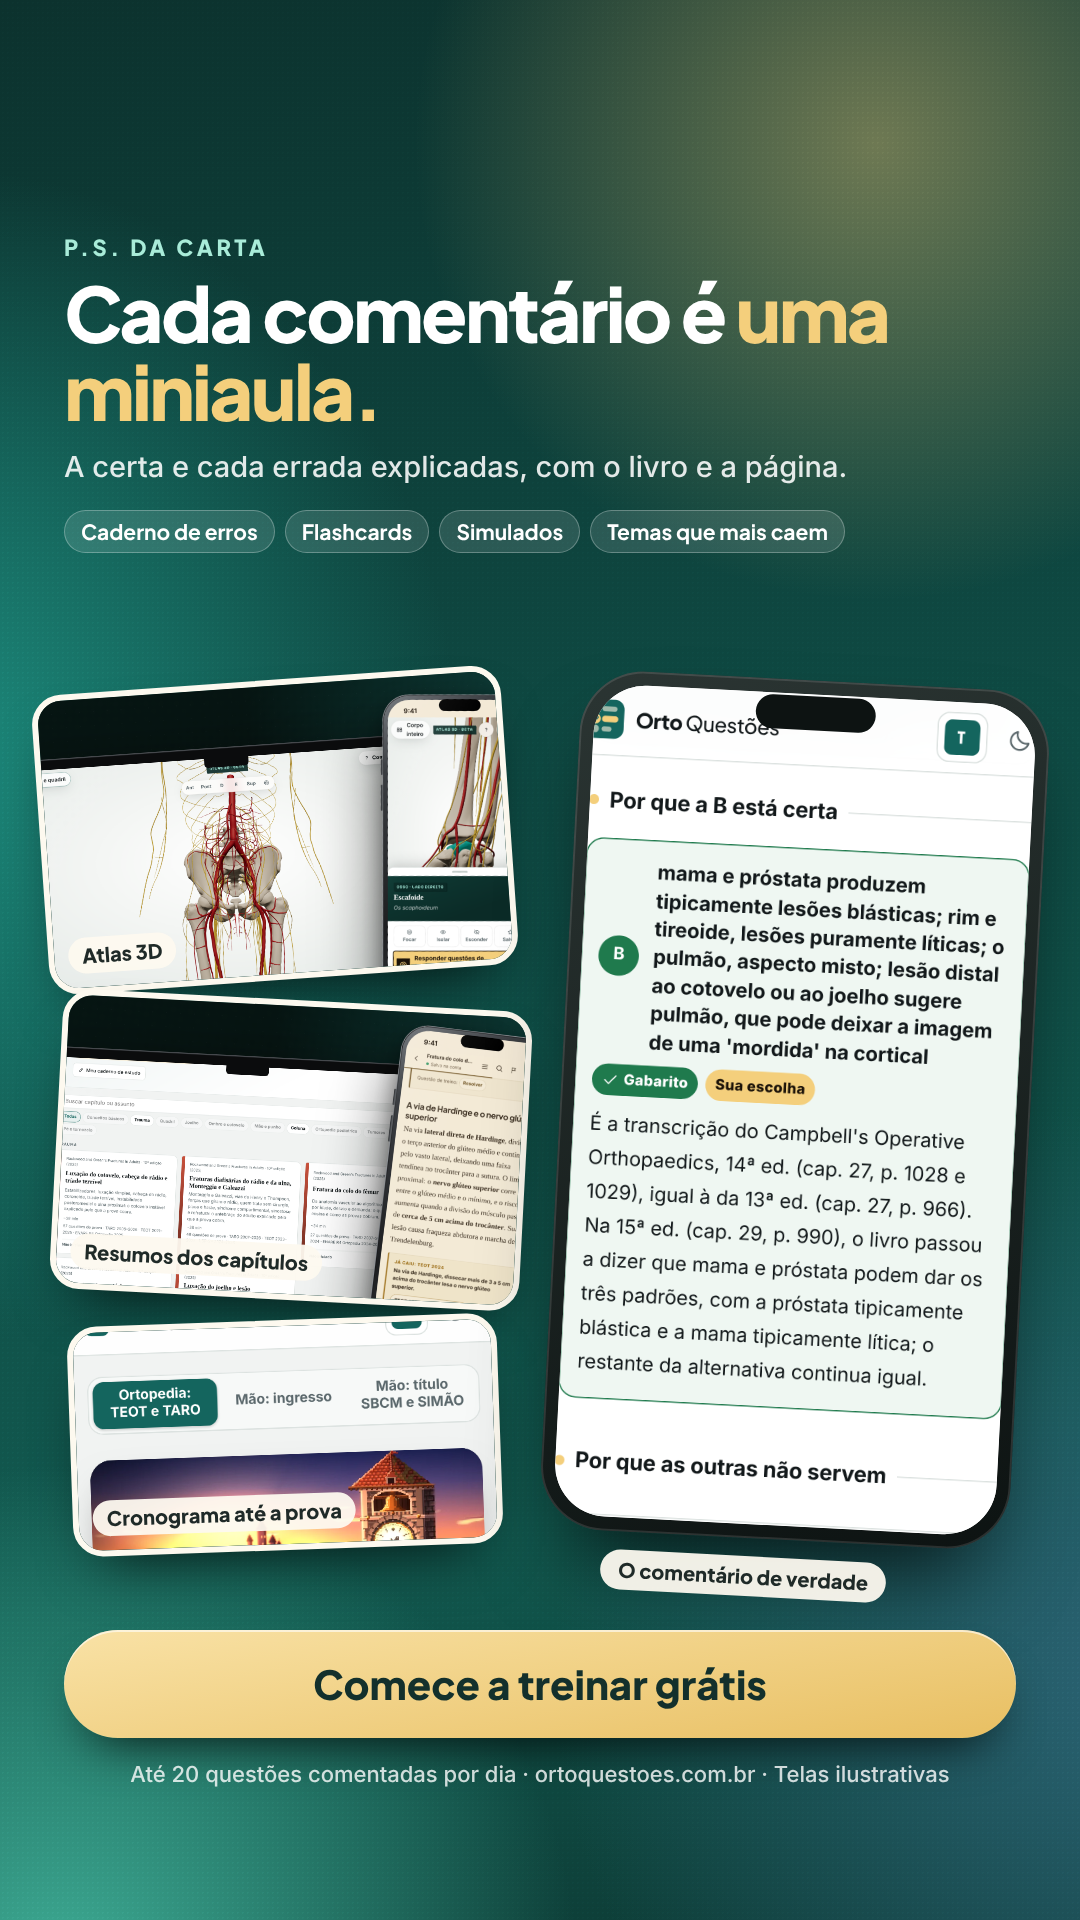
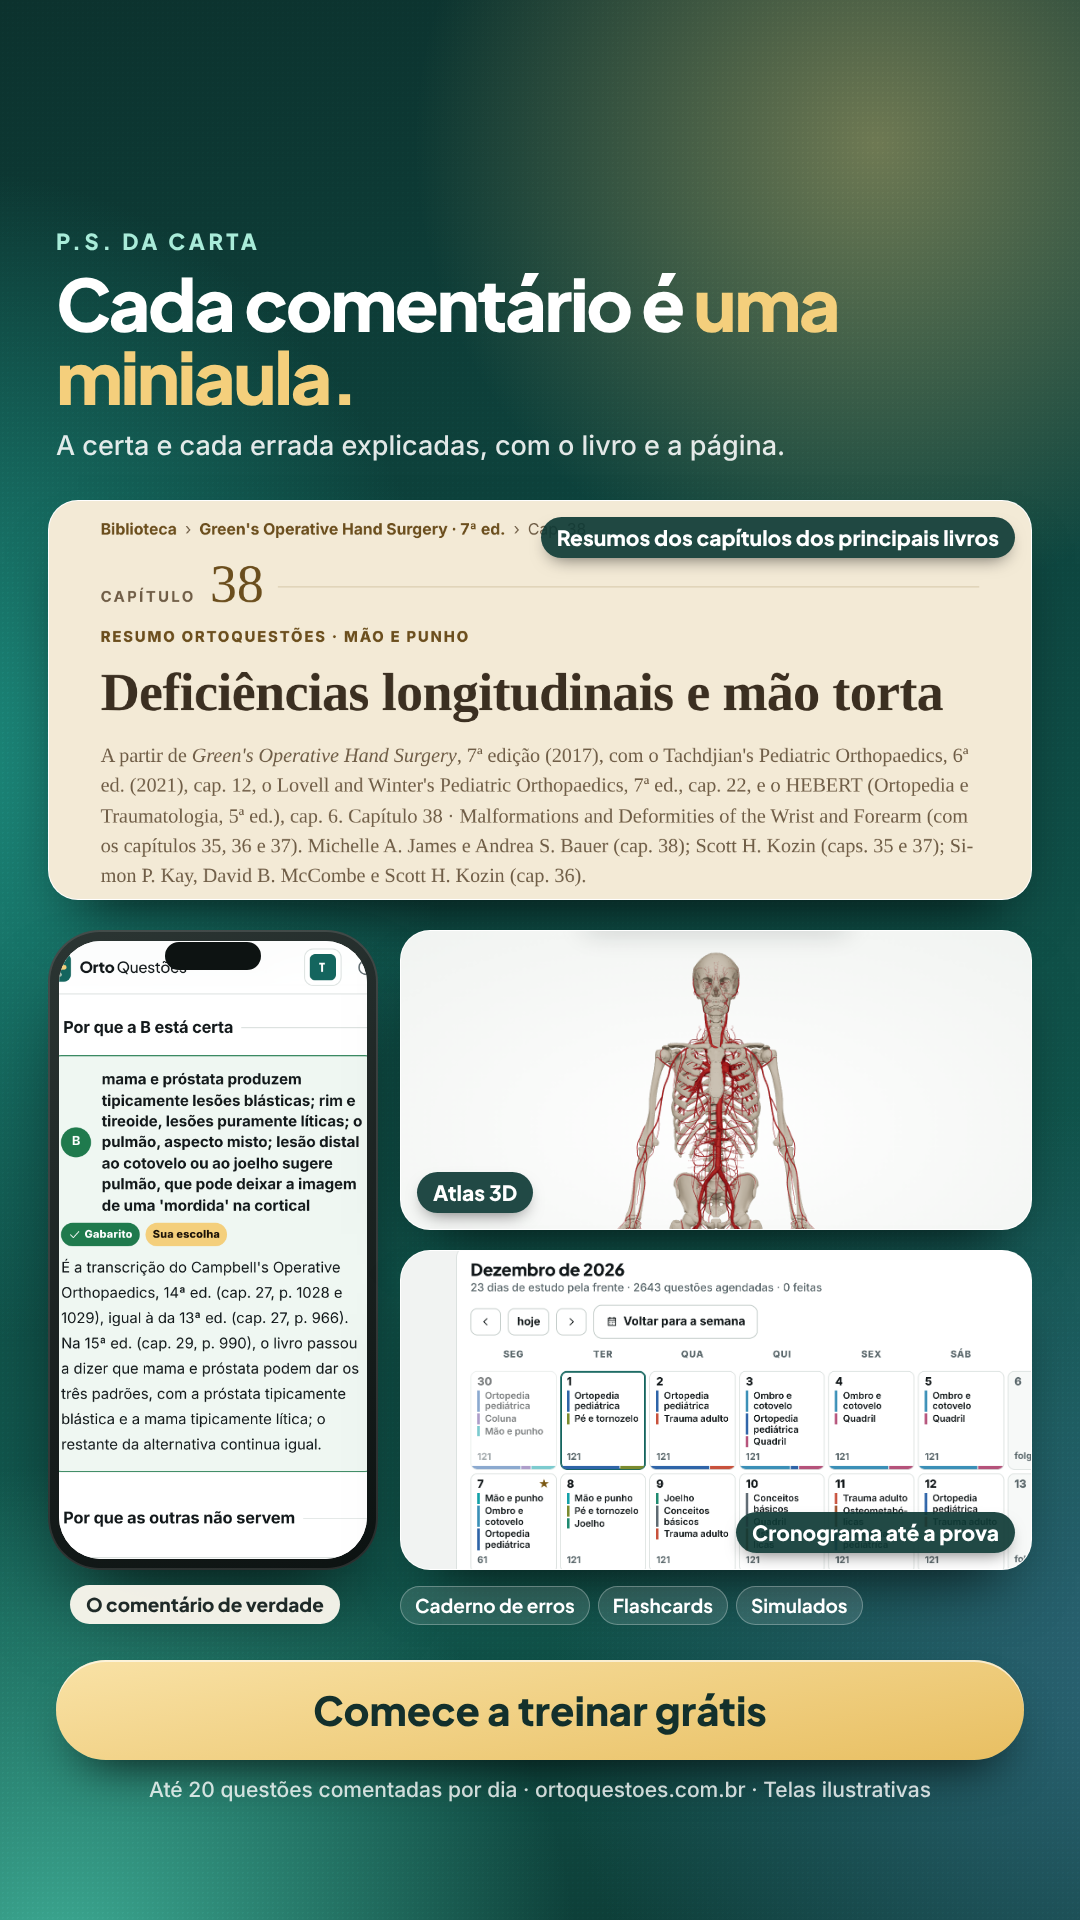
Story 3 de domingo: prints novos do resumo no computador, Atlas 3D centralizado e calendário do cronograma
Claude-Session: https://claude.ai/code/session_01GbKh11zCitYpbRvWcxSxNK

diff --git a/marketing/instagram/posts/2026-11-22-carta-bayne-klug/stories.html b/marketing/instagram/posts/2026-11-22-carta-bayne-klug/stories.html
@@ -93,6 +93,13 @@ section { color: #1f2a28; }
 .botao { position: absolute; display: flex; align-items: center; justify-content: center; height: 108px; border-radius: 999px;
   font: 800 40px/1 Jakarta; color: #13302c; background: linear-gradient(170deg, #f9e2a6, #e8bf62);
   box-shadow: 0 26px 50px -24px rgba(0,0,0,.85), 0 2px 0 rgba(255,255,255,.6) inset; }
+.print2 { position: absolute; border-radius: 30px; overflow: hidden; background: #fff; border: 1.5px solid rgba(255,255,255,.5);
+  box-shadow: 0 34px 60px -30px rgba(0,0,0,.8); }
+.print2 img { display: block; width: 100%; height: 100%; object-fit: cover; }
+.print2 span { position: absolute; left: 16px; bottom: 16px; padding: 10px 16px; border-radius: 999px; background: rgba(14,58,53,.92); color: #fff; font: 800 21px/1 Jakarta;
+  box-shadow: 0 8px 18px -8px rgba(0,0,0,.6); }
+.selo-txt { position: absolute; padding: 10px 16px; border-radius: 999px; background: rgba(253,249,239,.95); font: 800 19px/1 Jakarta; color: #1f2a28; }
+.chip { padding: 9px 14px; border-radius: 999px; background: rgba(255,255,255,.12); border: 1.5px solid rgba(255,255,255,.28); font: 700 19px/1 Jakarta; color: #fff; }
 </style></head>
 <body>
 <svg width="0" height="0" style="position:absolute"><defs>
@@ -175,27 +182,29 @@ section { color: #1f2a28; }
   <p style="position:absolute; left:0; right:0; top:1704px; text-align:center; font:600 25px/1.3 Inter; color:rgba(255,255,255,.85);">No próximo story: o que mais tem no site</p>
 </section>
 
-<!-- ============ STORY 3 (noite): a vitrine do site ============ -->
+<!-- ============ STORY 3 (noite): a vitrine do site, com prints novos (22/11/2026) ============ -->
 <section id="s3-convite">
   <div class="mesa"></div><div class="grao"></div>
-  <div style="position:absolute; left:64px; right:64px; top:236px;">
+  <div style="position:absolute; left:56px; right:56px; top:230px;">
     <p style="font:800 22px/1 Jakarta; letter-spacing:3.5px; color:#a9ecd9; text-transform:uppercase;">P.S. da carta</p>
-    <h1 style="margin-top:16px; font:800 76px/1.02 Jakarta; letter-spacing:-2.6px; color:#fff;">Cada comentário é <span style="color:var(--ouro);">uma miniaula.</span></h1>
-    <p style="margin-top:18px; font:500 29px/1.4 Inter; color:rgba(255,255,255,.88);">A certa e cada errada explicadas, com o livro e a página.</p>
-    <div style="margin-top:22px; display:flex; flex-wrap:wrap; gap:10px;"><span style="padding:10px 16px; border-radius:999px; background:rgba(255,255,255,.12); border:1.5px solid rgba(255,255,255,.28); font:700 21px/1 Jakarta; color:#fff;">Caderno de erros</span><span style="padding:10px 16px; border-radius:999px; background:rgba(255,255,255,.12); border:1.5px solid rgba(255,255,255,.28); font:700 21px/1 Jakarta; color:#fff;">Flashcards</span><span style="padding:10px 16px; border-radius:999px; background:rgba(255,255,255,.12); border:1.5px solid rgba(255,255,255,.28); font:700 21px/1 Jakarta; color:#fff;">Simulados</span><span style="padding:10px 16px; border-radius:999px; background:rgba(255,255,255,.12); border:1.5px solid rgba(255,255,255,.28); font:700 21px/1 Jakarta; color:#fff;">Temas que mais caem</span></div>
+    <h1 style="margin-top:14px; font:800 72px/1.02 Jakarta; letter-spacing:-2.4px; color:#fff;">Cada comentário é <span style="color:var(--ouro);">uma miniaula.</span></h1>
+    <p style="margin-top:14px; font:500 27px/1.4 Inter; color:rgba(255,255,255,.88);">A certa e cada errada explicadas, com o livro e a página.</p>
   </div>
 
-  <div class="print" style="left:40px; width:470px; height:300px; top:680px; transform:rotate(-4deg);"><img src="img/tela-atlas.png" alt=""><span>Atlas 3D</span></div>
-  <div class="print" style="left:56px; width:470px; height:300px; top:1000px; transform:rotate(3deg);"><img src="img/tela-resumos.png" alt=""><span>Resumos dos capítulos</span></div>
-  <div class="print" style="left:70px; width:430px; height:230px; top:1320px; transform:rotate(-2deg);"><img src="img/tela-cronograma.png" alt="" style="object-position:50% 12%;"><span>Cronograma até a prova</span></div>
+  <div class="print2" style="left:48px; right:48px; top:500px; height:400px;"><img src="img/tela-resumo-pc.png" alt="" style="object-position:0 0;"><span style="left:auto; right:16px; top:16px; bottom:auto;">Resumos dos capítulos dos principais livros</span></div>
 
-  <div class="iphone" style="left:560px; width:470px; height:860px; top:680px; transform:rotate(3deg);">
-    <div class="ilha"></div>
-    <div class="tela"><img src="img/tela-comentario.png" alt=""></div>
+  <div class="iphone" style="left:48px; width:330px; height:640px; top:930px; padding:11px; border-radius:52px;">
+    <div class="ilha" style="top:12px; width:96px; height:28px; margin-left:-48px;"></div>
+    <div class="tela" style="border-radius:42px;"><img src="img/tela-comentario.png" alt=""></div>
   </div>
-  <div style="position:absolute; left:600px; top:1556px; padding:10px 18px; border-radius:999px; background:rgba(253,249,239,.95); font:800 20px/1 Jakarta; color:#1f2a28; transform:rotate(3deg);">O comentário de verdade</div>
+  <div class="selo-txt" style="left:70px; top:1585px;">O comentário de verdade</div>
 
-  <div class="botao" style="left:64px; right:64px; top:1630px;">Comece a treinar grátis</div>
-  <p style="position:absolute; left:0; right:0; top:1760px; text-align:center; font:500 22px/1.3 Inter; color:rgba(255,255,255,.8);">Até 20 questões comentadas por dia · ortoquestoes.com.br · Telas ilustrativas</p>
+  <div class="print2" style="left:400px; right:48px; top:930px; height:300px;"><img src="img/tela-atlas-pc.png" alt=""><span>Atlas 3D</span></div>
+  <div class="print2" style="left:400px; right:48px; top:1250px; height:320px;"><img src="img/tela-calendario.png" alt="" style="object-position:0 0;"><span style="left:auto; right:16px;">Cronograma até a prova</span></div>
+
+  <div style="position:absolute; left:400px; right:48px; top:1586px; display:flex; flex-wrap:wrap; gap:8px;"><span class="chip">Caderno de erros</span><span class="chip">Flashcards</span><span class="chip">Simulados</span></div>
+
+  <div class="botao" style="left:56px; right:56px; top:1660px; height:100px;">Comece a treinar grátis</div>
+  <p style="position:absolute; left:0; right:0; top:1776px; text-align:center; font:500 21px/1.3 Inter; color:rgba(255,255,255,.8);">Até 20 questões comentadas por dia · ortoquestoes.com.br · Telas ilustrativas</p>
 </section>
 </body></html>

diff --git a/marketing/instagram/posts/2026-11-22-carta-bayne-klug/LEGENDA.md b/marketing/instagram/posts/2026-11-22-carta-bayne-klug/LEGENDA.md
@@ -27,3 +27,9 @@ só no cumprimento e na assinatura), carta organizada em blocos, e um 3º story 
 capturas reais já existentes, com a conta de exemplo ("Telas ilustrativas"): o comentário (`posts/2026-11-13-errata-metastases`),
 o Atlas 3D (`posts/2026-10-27-atlas-3d`), a Biblioteca (`resumos-biblioteca`) e o cronograma (`marketing/kit/telas`).
 "Até 20 questões comentadas por dia": `LIMITE_GRATIS_ATUAL = 20` em `src/config.ts` (verdade com o limite ligado ou desligado).
+
+## Prints novos do story 3 (22/11/2026, pedido do Tales)
+
+Capturados com `capturar-telas.mjs` (conta de exemplo, tela de computador 1440 x 900): o resumo do Green cap. 38 aberto
+no leitor do computador (grande, para ler), o Atlas 3D centralizado com a camada de artérias e o calendário do
+cronograma (mês de dezembro, com as áreas de cada dia). O comentário no iPhone continua o mesmo.
